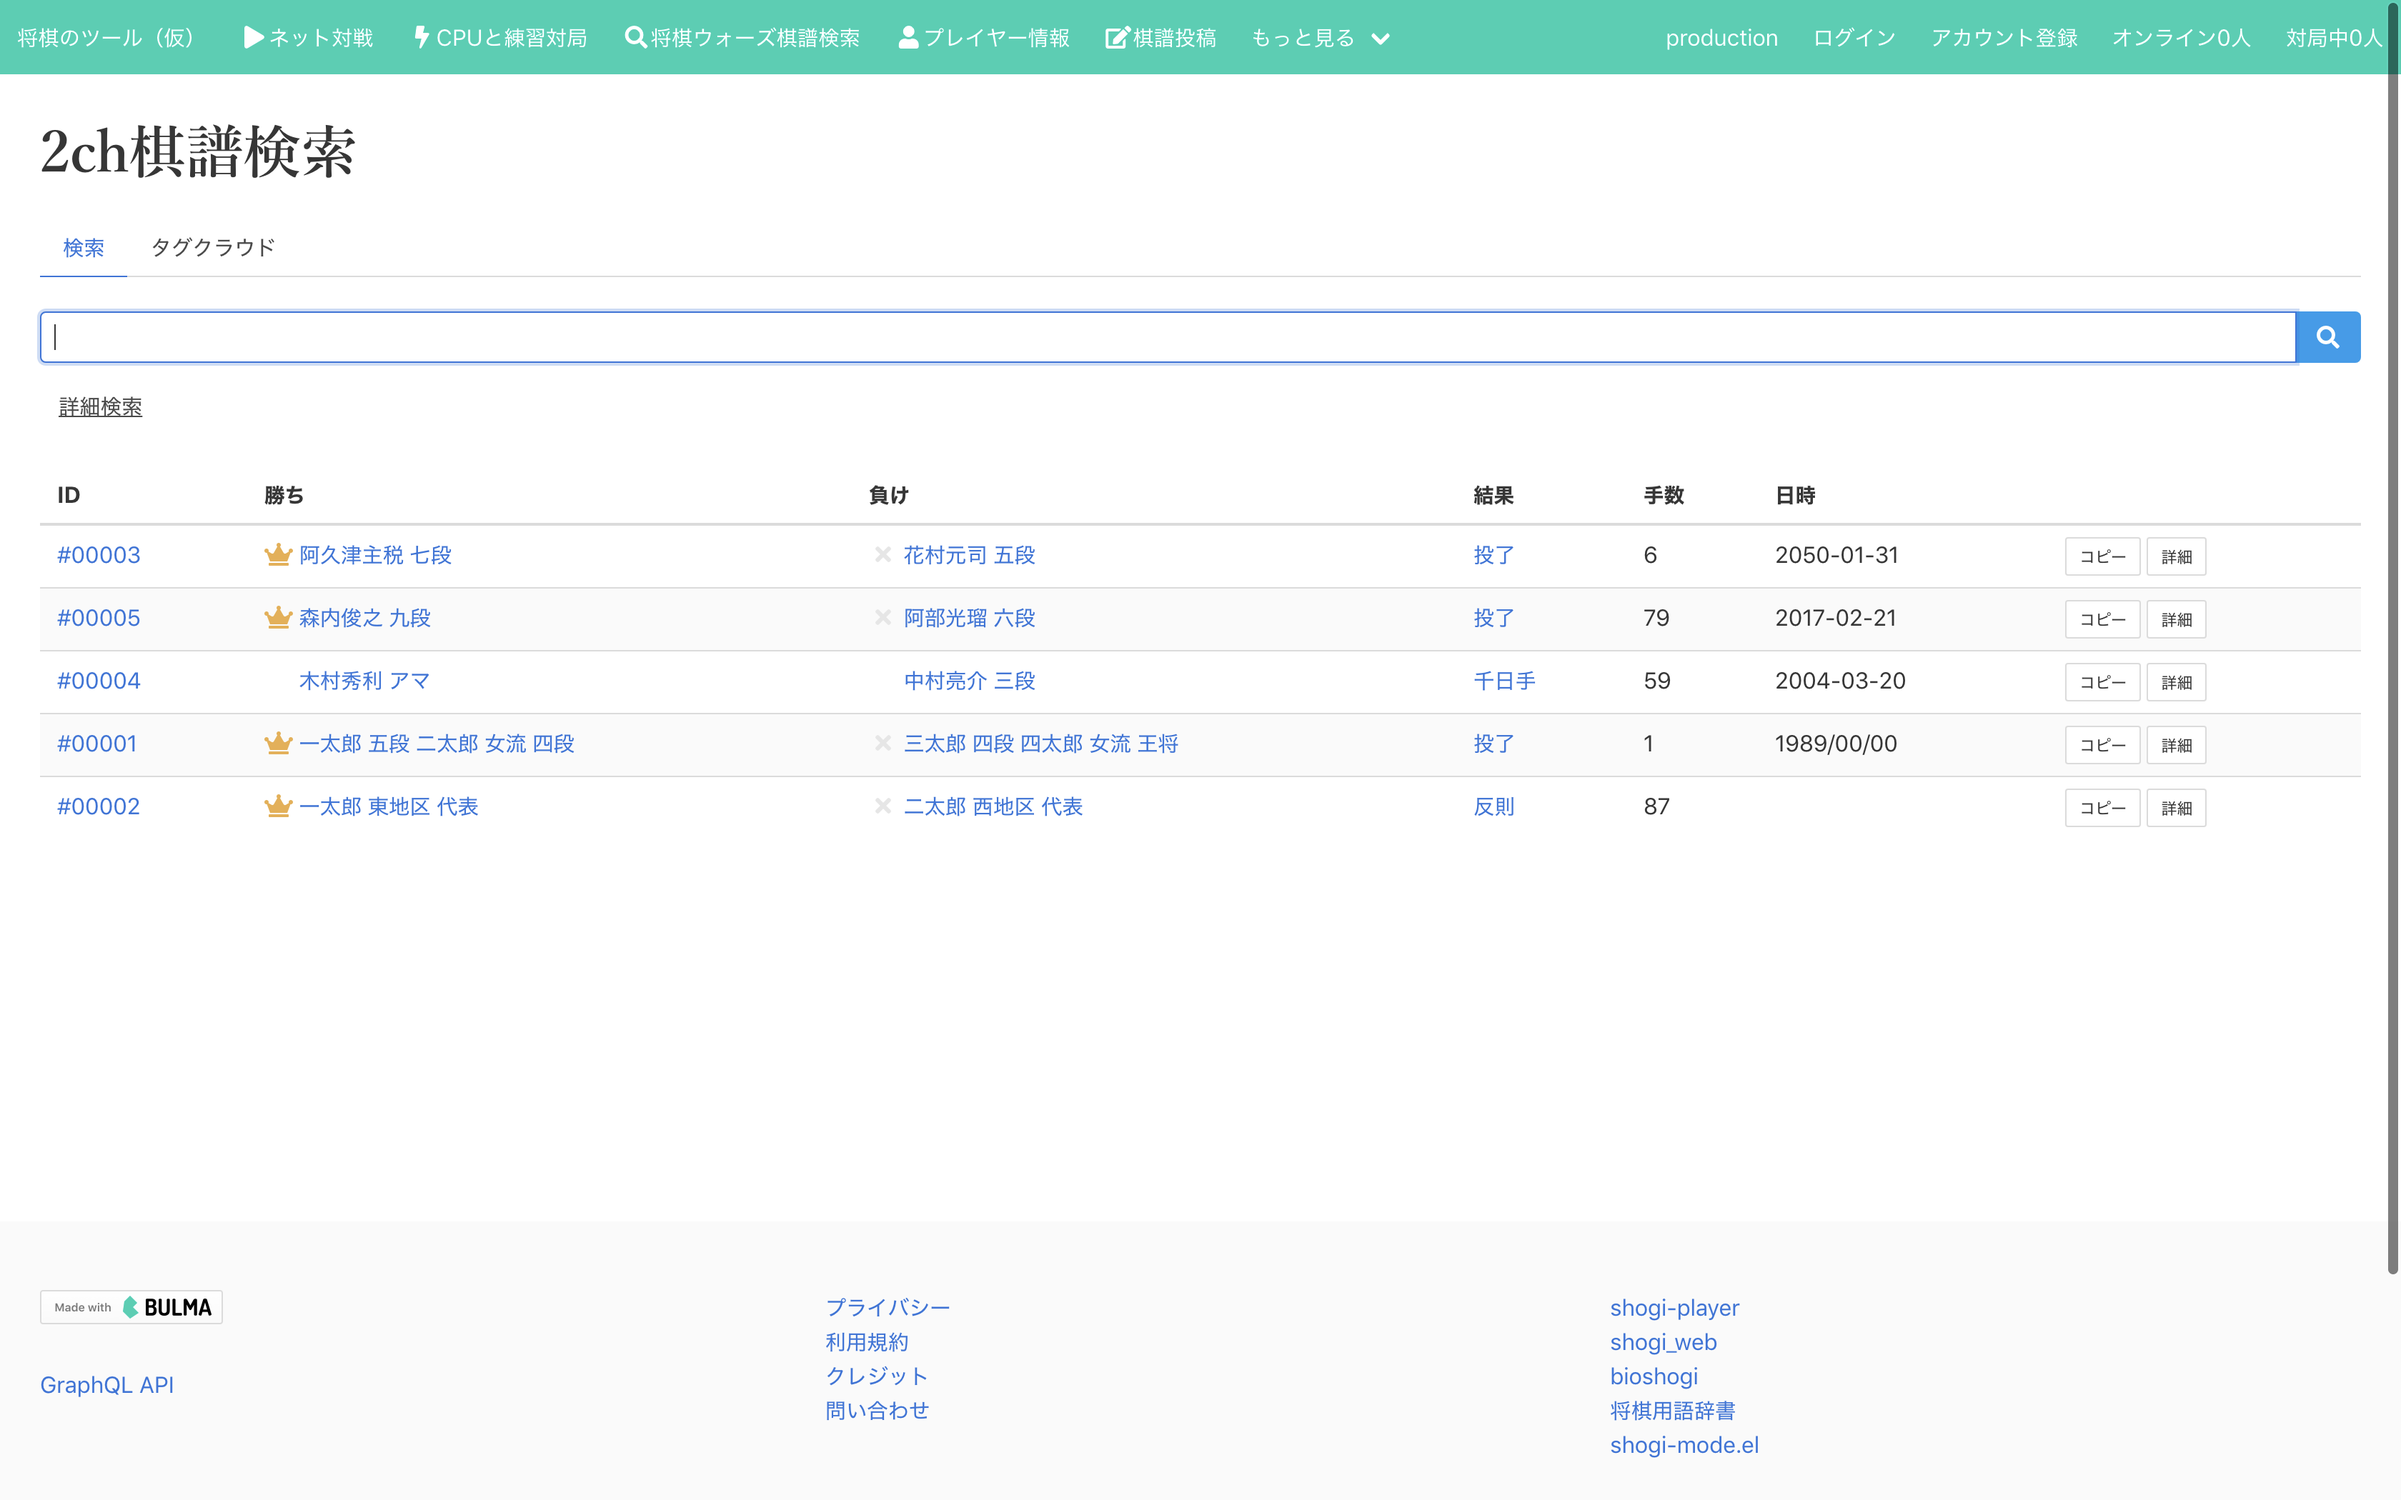
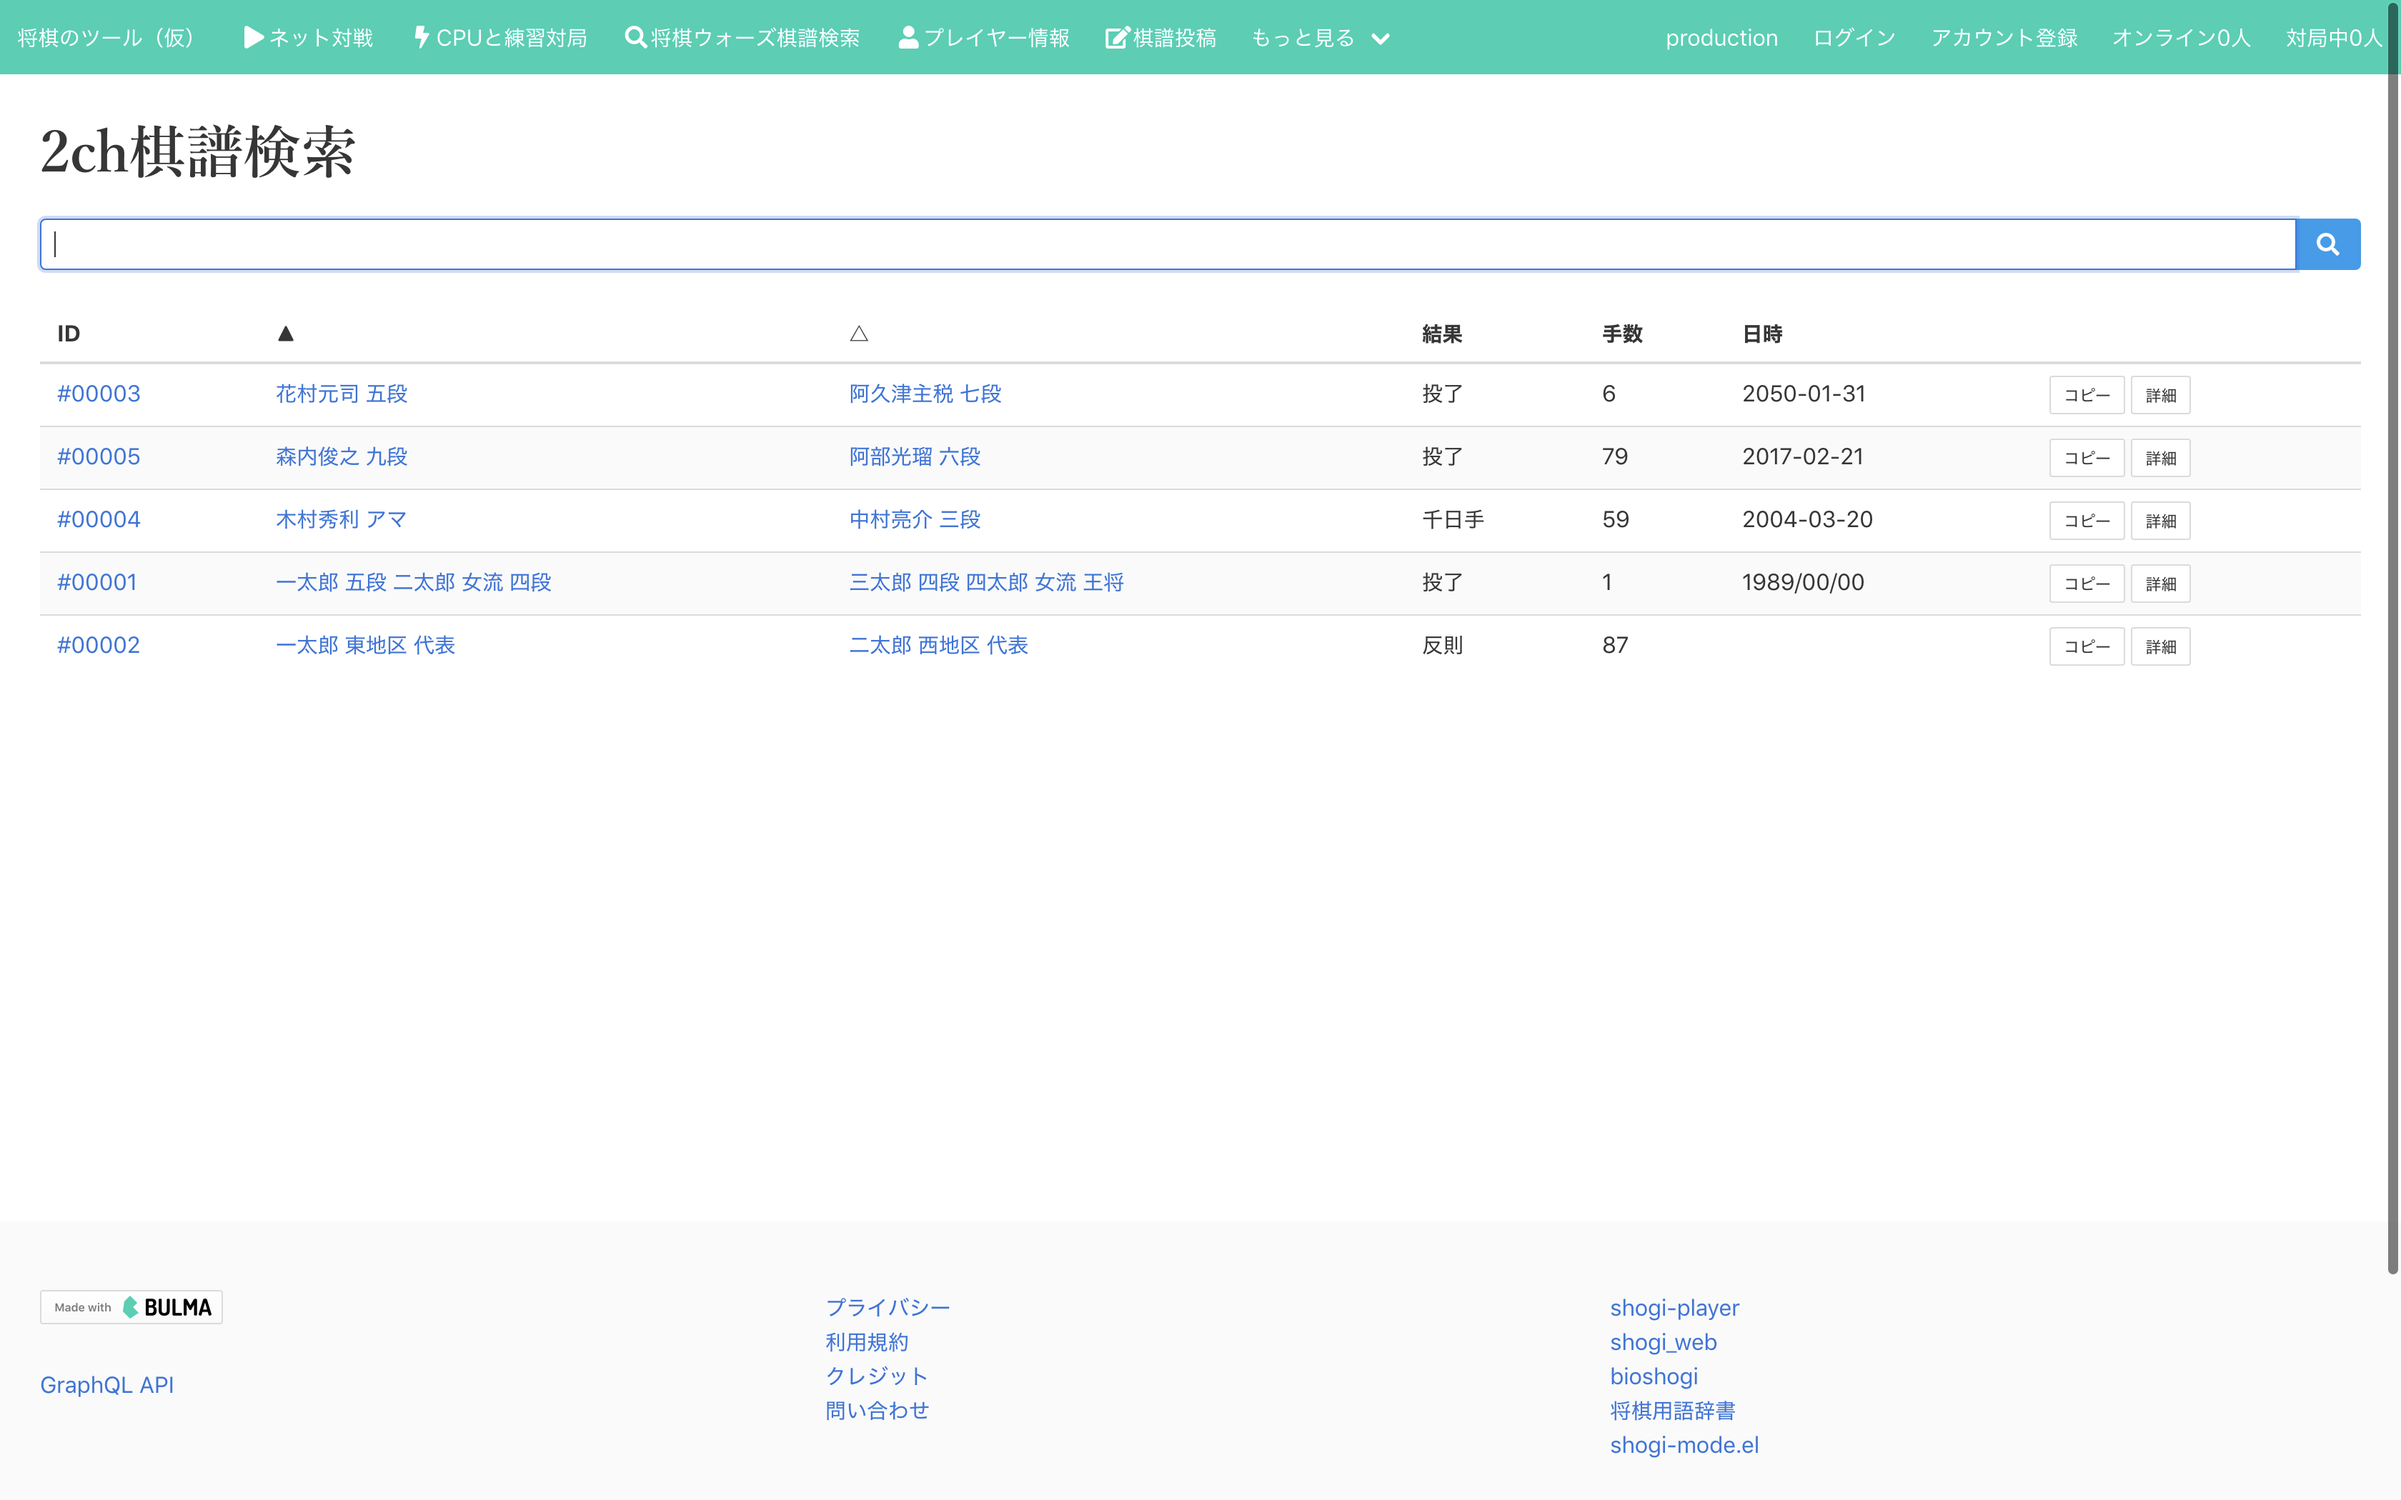
[refactor] レガシーな2ch検索のコントローラとビューまわりのコードを縮小

diff --git a/app/controllers/general/battles_controller.rb b/app/controllers/general/battles_controller.rb
@@ -24,7 +24,6 @@
 module General
   class BattlesController < ApplicationController
     include ModulableCrud::All
-    include BattleControllerSharedMethods1
 
     let :current_record do
       if v = params[:id].presence
@@ -34,64 +33,15 @@ module General
       end
     end
 
-    let :current_tags do
-      s = params[:query].to_s.gsub(/[,\p{blank}]/, " ").strip
-      s = s.split
-      s.uniq
-    end
-
-    let :current_plus_tags do
-      current_tags.find_all do |e|
-        !e.start_with?("-") && !e.match?(/[<>]/)
-      end
-    end
-
-    let :current_minus_tags do
-      current_tags.collect { |e|
-        if e.start_with?("-")
-          e.remove(/^-/)
-        end
-      }.compact
-    end
-
-    let :current_turn_max do
-      current_tags.collect { |e|
-        if md = e.match(/手数(?<op>[<>]=?)(?<number>\d+)/)
-          md.named_captures.symbolize_keys
-        end
-      }.compact
-    end
-
     let :current_query do
-      current_tags.join(" ")
-    end
-
-    let :current_tactics do
-      current_tags.find_all { |e| Bioshogi::TacticInfo.any? { |e| e.model[e] } }
-    end
-
-    let :current_general_user do
-      if e = current_tags.find { |e| User.find_by(name: e) }
-        User.find_by(name: e)
-      end
+      params[:query].presence
     end
 
     let :current_scope do
       s = current_model
-      if v = current_plus_tags.presence
+      if v = current_query
         s = s.tagged_with(v)
       end
-
-      if v = current_minus_tags.presence
-        s = s.tagged_with(v, exclude: true)
-      end
-
-      if v = current_turn_max.presence
-        v.each do |v|
-          s = s.where("turn_max #{v[:op]} #{v[:number]}")
-        end
-      end
-
       s.order(battled_at: :desc)
     end
 
@@ -103,92 +53,12 @@ module General
       current_records.collect do |battle|
         {}.tap do |row|
           row["ID"] = link_to("##{battle.to_param}", battle)
-
-          mode = nil
-          if current_general_user
-            l_ship = battle.myself(current_general_user)
-            r_ship = battle.rival(current_general_user)
-            if l_ship && r_ship
-              mode = :current_general_user
-            end
-          end
-          unless mode
-            if battle.final_info.draw
-              l_ship = battle.memberships.black
-              r_ship = battle.memberships.white
-              mode = :draw
-            else
-              l_ship = battle.memberships.judge_key_eq(:win)
-              r_ship = battle.memberships.judge_key_eq(:lose)
-              mode = :win_lose
-            end
-          end
-
-          case mode
-          when :current_general_user
-            row["対象棋士"] = battle.icon_html(l_ship).html_safe + " " + membership_name(l_ship)
-            row["相手"] = battle.icon_html(r_ship).html_safe + " " + membership_name(r_ship)
-          when :draw
-            row["勝ち"] = icon_tag(:fas, :minus, :class => "icon_hidden") + membership_name(l_ship)
-            row["負け"] = icon_tag(:fas, :minus, :class => "icon_hidden") + membership_name(r_ship)
-          else
-            row["勝ち"] = icon_tag(:fas, :crown, :class => :icon_o) + membership_name(l_ship)
-            row["負け"] = icon_tag(:fas, :times, :class => :icon_x) + membership_name(r_ship)
-          end
-
-          row["結果"] = final_info_decorate(battle)
-
-          if false
-            row["手合割"] = battle.preset_link(h, battle.meta_info[:header]["手合割"])
-            row["棋戦"] = battle.tournament_list.collect { |e| link_to(e.truncate(8), general_search_path(e)) }.join(" ").html_safe
-            row["戦型対決"] = versus_tag(tag_links(l_ship.attack_tag_list), tag_links(r_ship.attack_tag_list))
-            row["囲い対決"] = versus_tag(tag_links(l_ship.defense_tag_list), tag_links(r_ship.defense_tag_list))
-
-            place_list = battle.place_list
-            str = "".html_safe
-            if place_list.present?
-              str += link_to(icon_tag(:fas, :map_marker), h.google_maps_url(place_list.join(" ")), target: "_blank")
-              str += place_list.collect { |e| link_to(e, general_search_path(e)) }.join(" ").html_safe
-            end
-            row["場所"] = str
-          end
-
-          turn_max = battle.turn_max
-          # row["手数"] = link_to(turn_max, general_search_path("手数>=#{(turn_max - 5).clamp(0, Float::INFINITY)} 手数<=#{turn_max + 5}"))
-          row["手数"] = turn_max
-
+          row.update(["▲", "△"].zip(battle.memberships.collect{|e|membership_name(e)}).to_h)
+          row["結果"] = battle.final_info.name
+          row["手数"] = battle.turn_max
           row["日時"] = battle.date_link(h, battle.meta_info[:header]["開始日時"])
           row[""] = row_links(battle)
         end
-      end
-    end
-
-    def index
-      if request.format.zip?
-        filename = -> {
-          parts = []
-          parts << "2chkifu"
-          if current_general_user
-            parts << current_general_user.name
-          end
-          parts << Time.current.strftime("%Y%m%d%H%M%S")
-          parts.concat(current_tags)
-          parts.compact.join("_") + ".zip"
-        }
-
-        zip_buffer = Zip::OutputStream.write_buffer do |zos|
-          current_scope.limit(zip_download_limit).each do |battle|
-            KifuFormatWithBodInfo.each.with_index do |e|
-              if kd = battle.to_cached_kifu(e.key)
-                zos.put_next_entry("#{e.key}/#{battle.key}.#{e.key}")
-                zos.write kd
-              end
-            end
-          end
-        end
-
-        send_data(zip_buffer.string, type: Mime[params[:format]], filename: filename.call, disposition: "attachment")
-        return
       end
     end
 
@@ -210,47 +80,12 @@ module General
       }.join(" ").html_safe
     end
 
-    def select_func(model, key)
-      hash = model.sort_by(&:name).inject({}) { |a, e| a.merge(skill_option_create(e)) }
-      view_context.select_tag(key, view_context.options_for_select(hash), :class => "input", "v-model" => key, name: "", include_blank: true)
-    end
-
     private
-
-    def skill_option_create(e)
-      str = e.name
-      if v = e.alias_names.presence
-        v = v.join("・")
-        v = "（#{v}）"
-        str = "#{str}#{v}"
-      end
-      {str => e.name}
-    end
-
-    def access_log_create
-      current_record.update!(last_accessd_at: Time.current)
-    end
-
-    def versus_tag(*list)
-      list = list.compact
-      if list.present?
-        vs = tag.span(" vs ")
-        list.collect { |e| e || "不明" }.join(vs).html_safe
-      end
-    end
-
-    def tag_links(tag_list)
-      if tag_list.present?
-        tag_list.collect { |e| link_to(e, general_search_path(e)) }.join(" ").html_safe
-      end
-    end
 
     def row_links(battle)
       list = []
       list << link_to("コピー".html_safe, "#", "class": "button is-small kif_clipboard_copy_button", data: {kifu_copy_params: battle.to_kifu_copy_params(self).to_json})
       list << link_to("詳細", [battle], "class": "button is-small")
-      # list << link_to("山", [ns_prefix, battle, mountain: true], "class": "button is-small", remote: true, data: {toggle: :tooltip, title: "将棋山脈"})
-      # list << link_to(h.image_tag("piyo_shogi_icon.png", "class": "row_piyo_link"), piyo_shogi_app_url(full_url_for([ns_prefix, battle, format: "kif"])))
       list.compact.join(" ").html_safe
     end
 
@@ -258,16 +93,6 @@ module General
       if membership = battle.memberships.judge_key_eq(judge_key)
         membership_name(membership)
       end
-    end
-
-    def final_info_decorate(battle)
-      name = battle.final_info.name
-      str = name
-      final_info = battle.final_info
-      if v = final_info.label_key
-        str = tag.span(str, "class": "text-#{v}")
-      end
-      link_to(str, general_search_path(name))
     end
 
     rescue_from "ActiveRecord::RecordNotFound" do |exception|

diff --git a/config/routes.rb b/config/routes.rb
@@ -36,13 +36,10 @@ Rails.application.routes.draw do
   ################################################################################ 2ch棋譜検索
 
   namespace :general, path: "" do
-    resources :battles, path: "sr", only: [:index, :show] do
-      resources :tag_cloud, :only => :index, :module => :battles
-    end
+    resources :battles, path: "sr", only: [:index, :show]
 
     get "s?query=:query", to: "battles#index", as: :search # s/:query だと s/a%2Fb が s/a/b と解釈されて Apache (or Passenger) でエラーになってしまうため query=:query 形式にしている
     get "s",        to: "battles#index"
-    get "s-cloud",  to: "battles/tag_cloud#index", as: :cloud
   end
 
   resolve "General::User" do |user, options|

diff --git a/app/models/general/membership.rb b/app/models/general/membership.rb
@@ -24,8 +24,8 @@ module General
     scope :judge_key_eq, -> v { where(judge_key: v).take }
 
     # 先手/後手側の対局時の情報
-    scope :black, -> { where(location_key: "black").take! }
-    scope :white, -> { where(location_key: "white").take! }
+    # scope :black, -> { where(location_key: "black").take! }
+    # scope :white, -> { where(location_key: "white").take! }
 
     acts_as_ordered_taggable_on :defense_tags
     acts_as_ordered_taggable_on :attack_tags

diff --git a/spec/system/general/battles_spec.rb b/spec/system/general/battles_spec.rb
@@ -11,12 +11,4 @@ RSpec.describe "2ch棋譜", type: :system do
     expect(page).to have_field "query"
     doc_image
   end
-
-  it "検索" do
-    visit "/s"
-    find("#search_form input[type=search]").set("一太郎")
-    find("#search_form button").click
-    expect(page).to have_content "一太郎 ZIP ダウンロード"
-    doc_image
-  end
 end

diff --git a/app/controllers/swars/battles_controller.rb b/app/controllers/swars/battles_controller.rb
@@ -198,12 +198,6 @@ module Swars
       end
     end
 
-    def tag_links(tag_list)
-      if tag_list.present?
-        tag_list.collect { |e| link_to(e, swars_tag_search_path(e)) }.join(" ").html_safe
-      end
-    end
-
     def perform_zip_download
       if request.format.zip?
         require "kconv"
